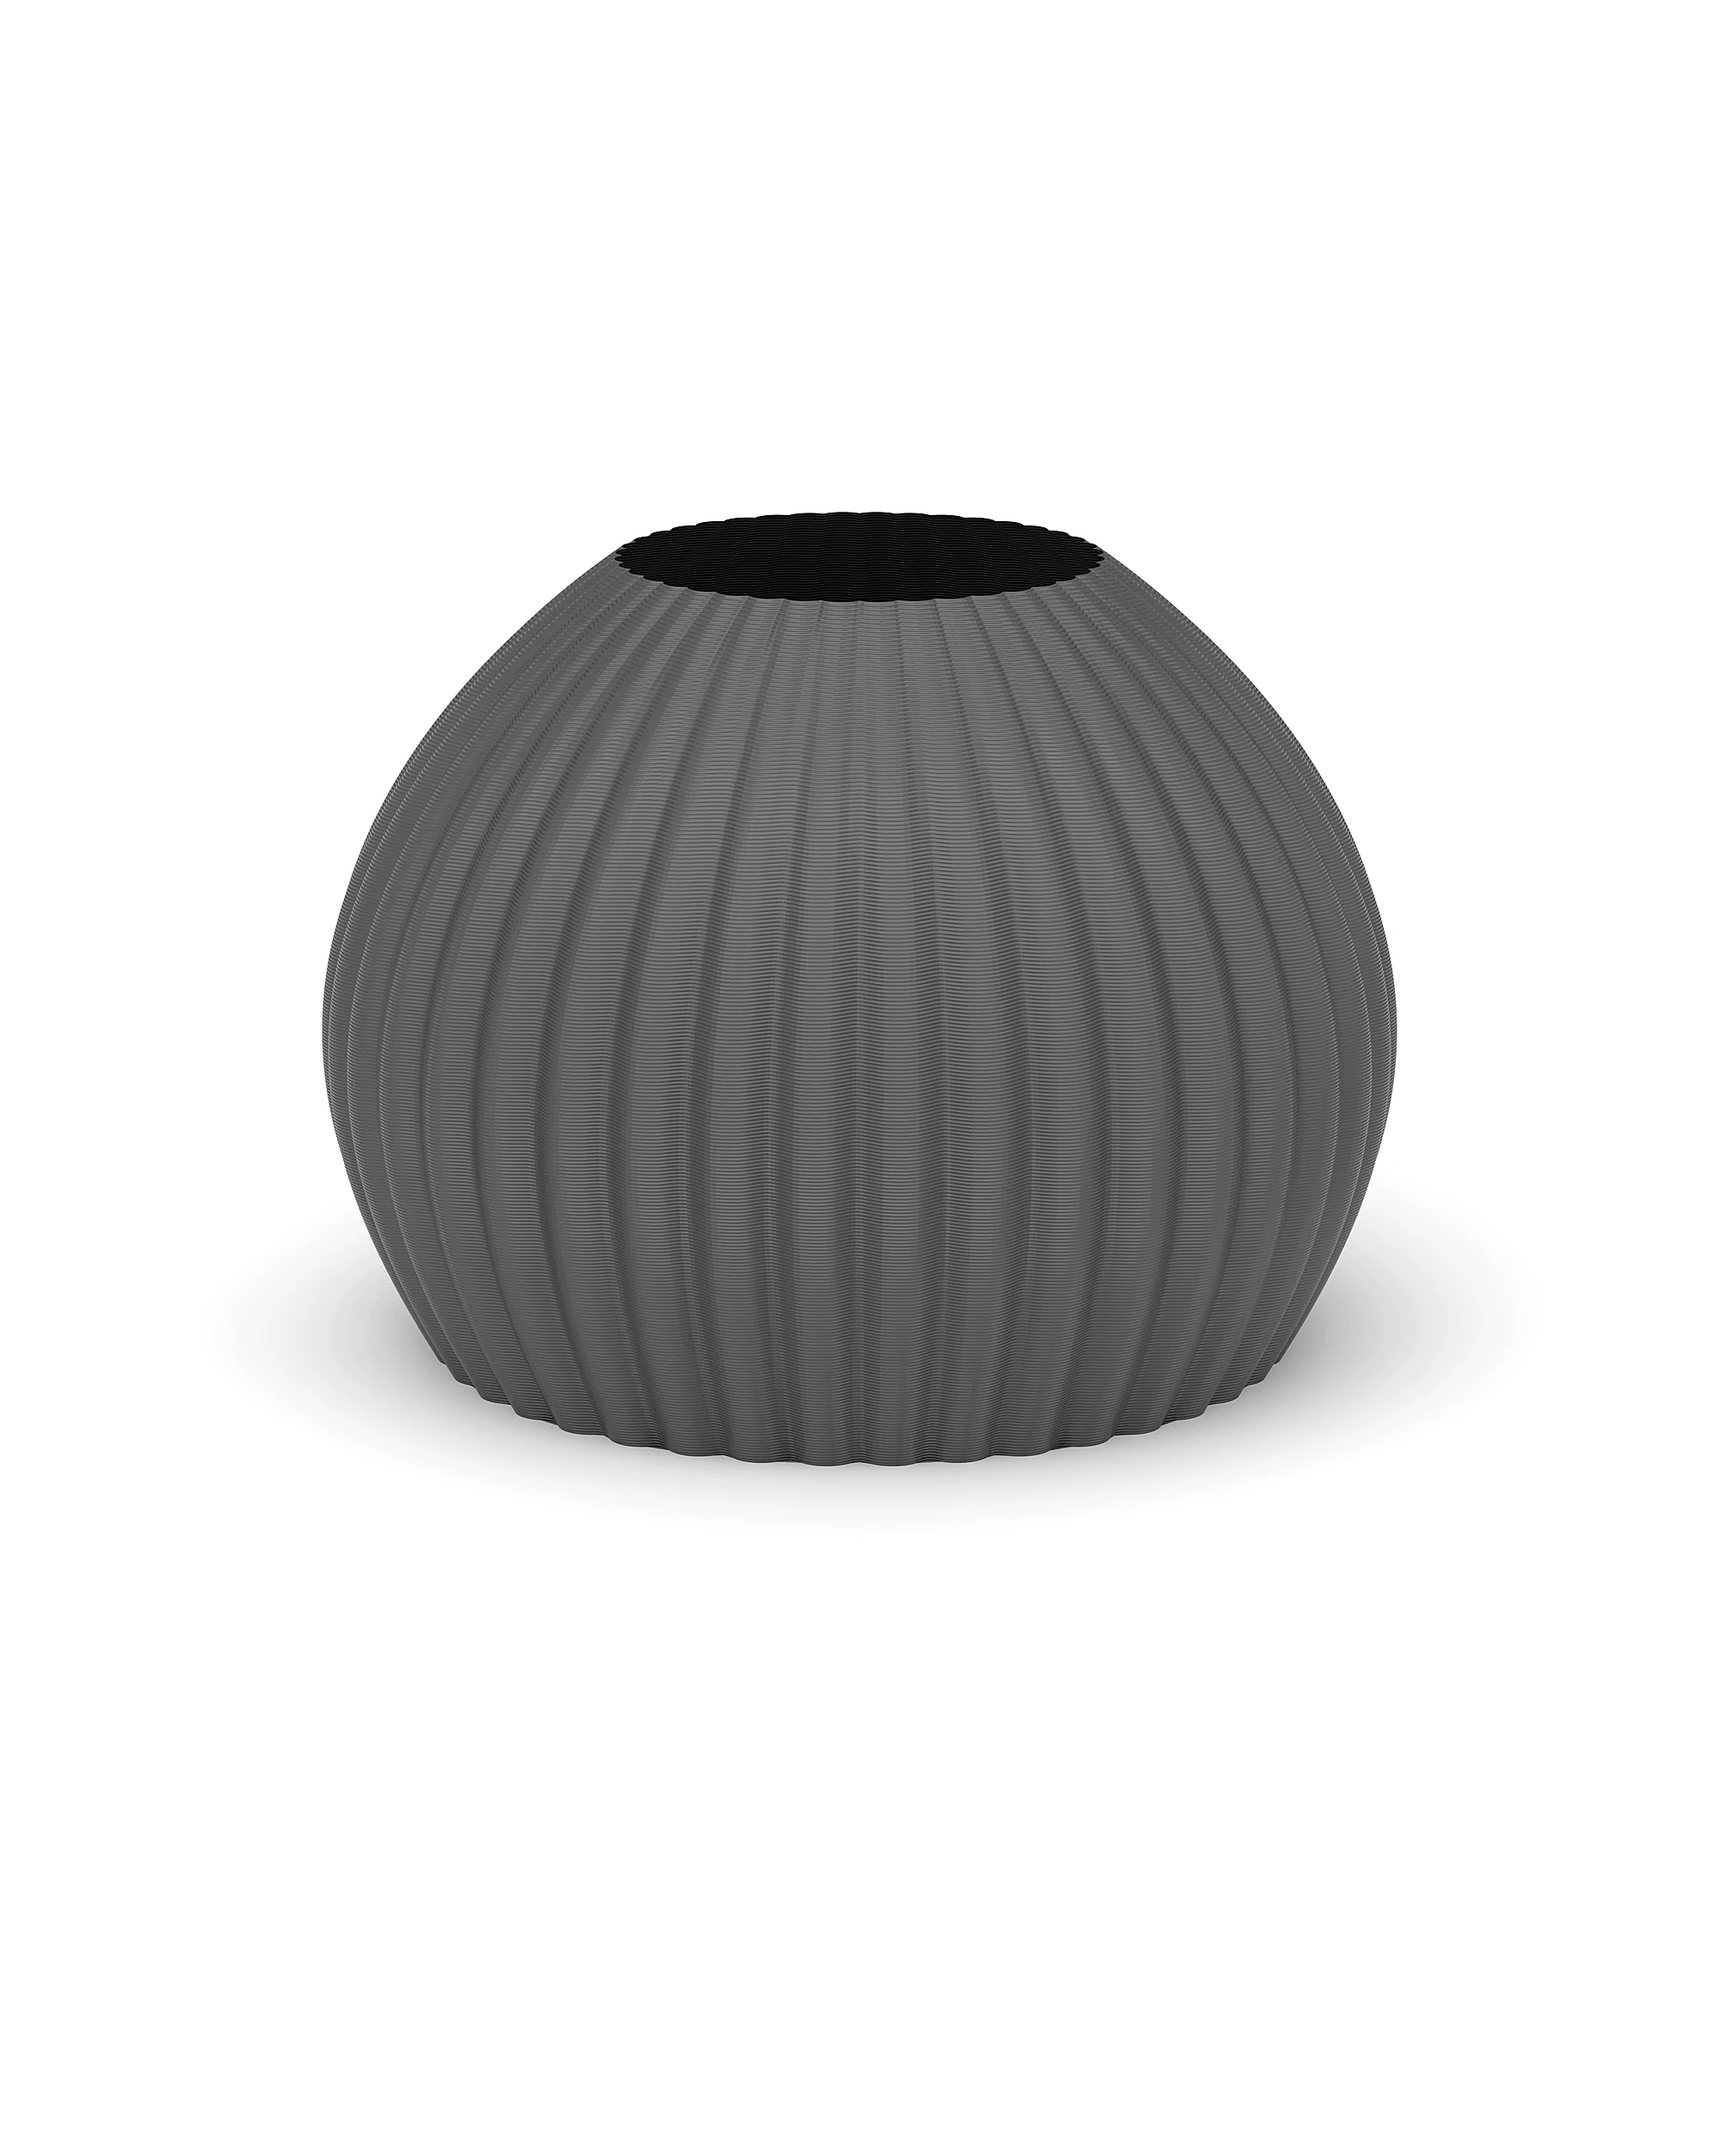
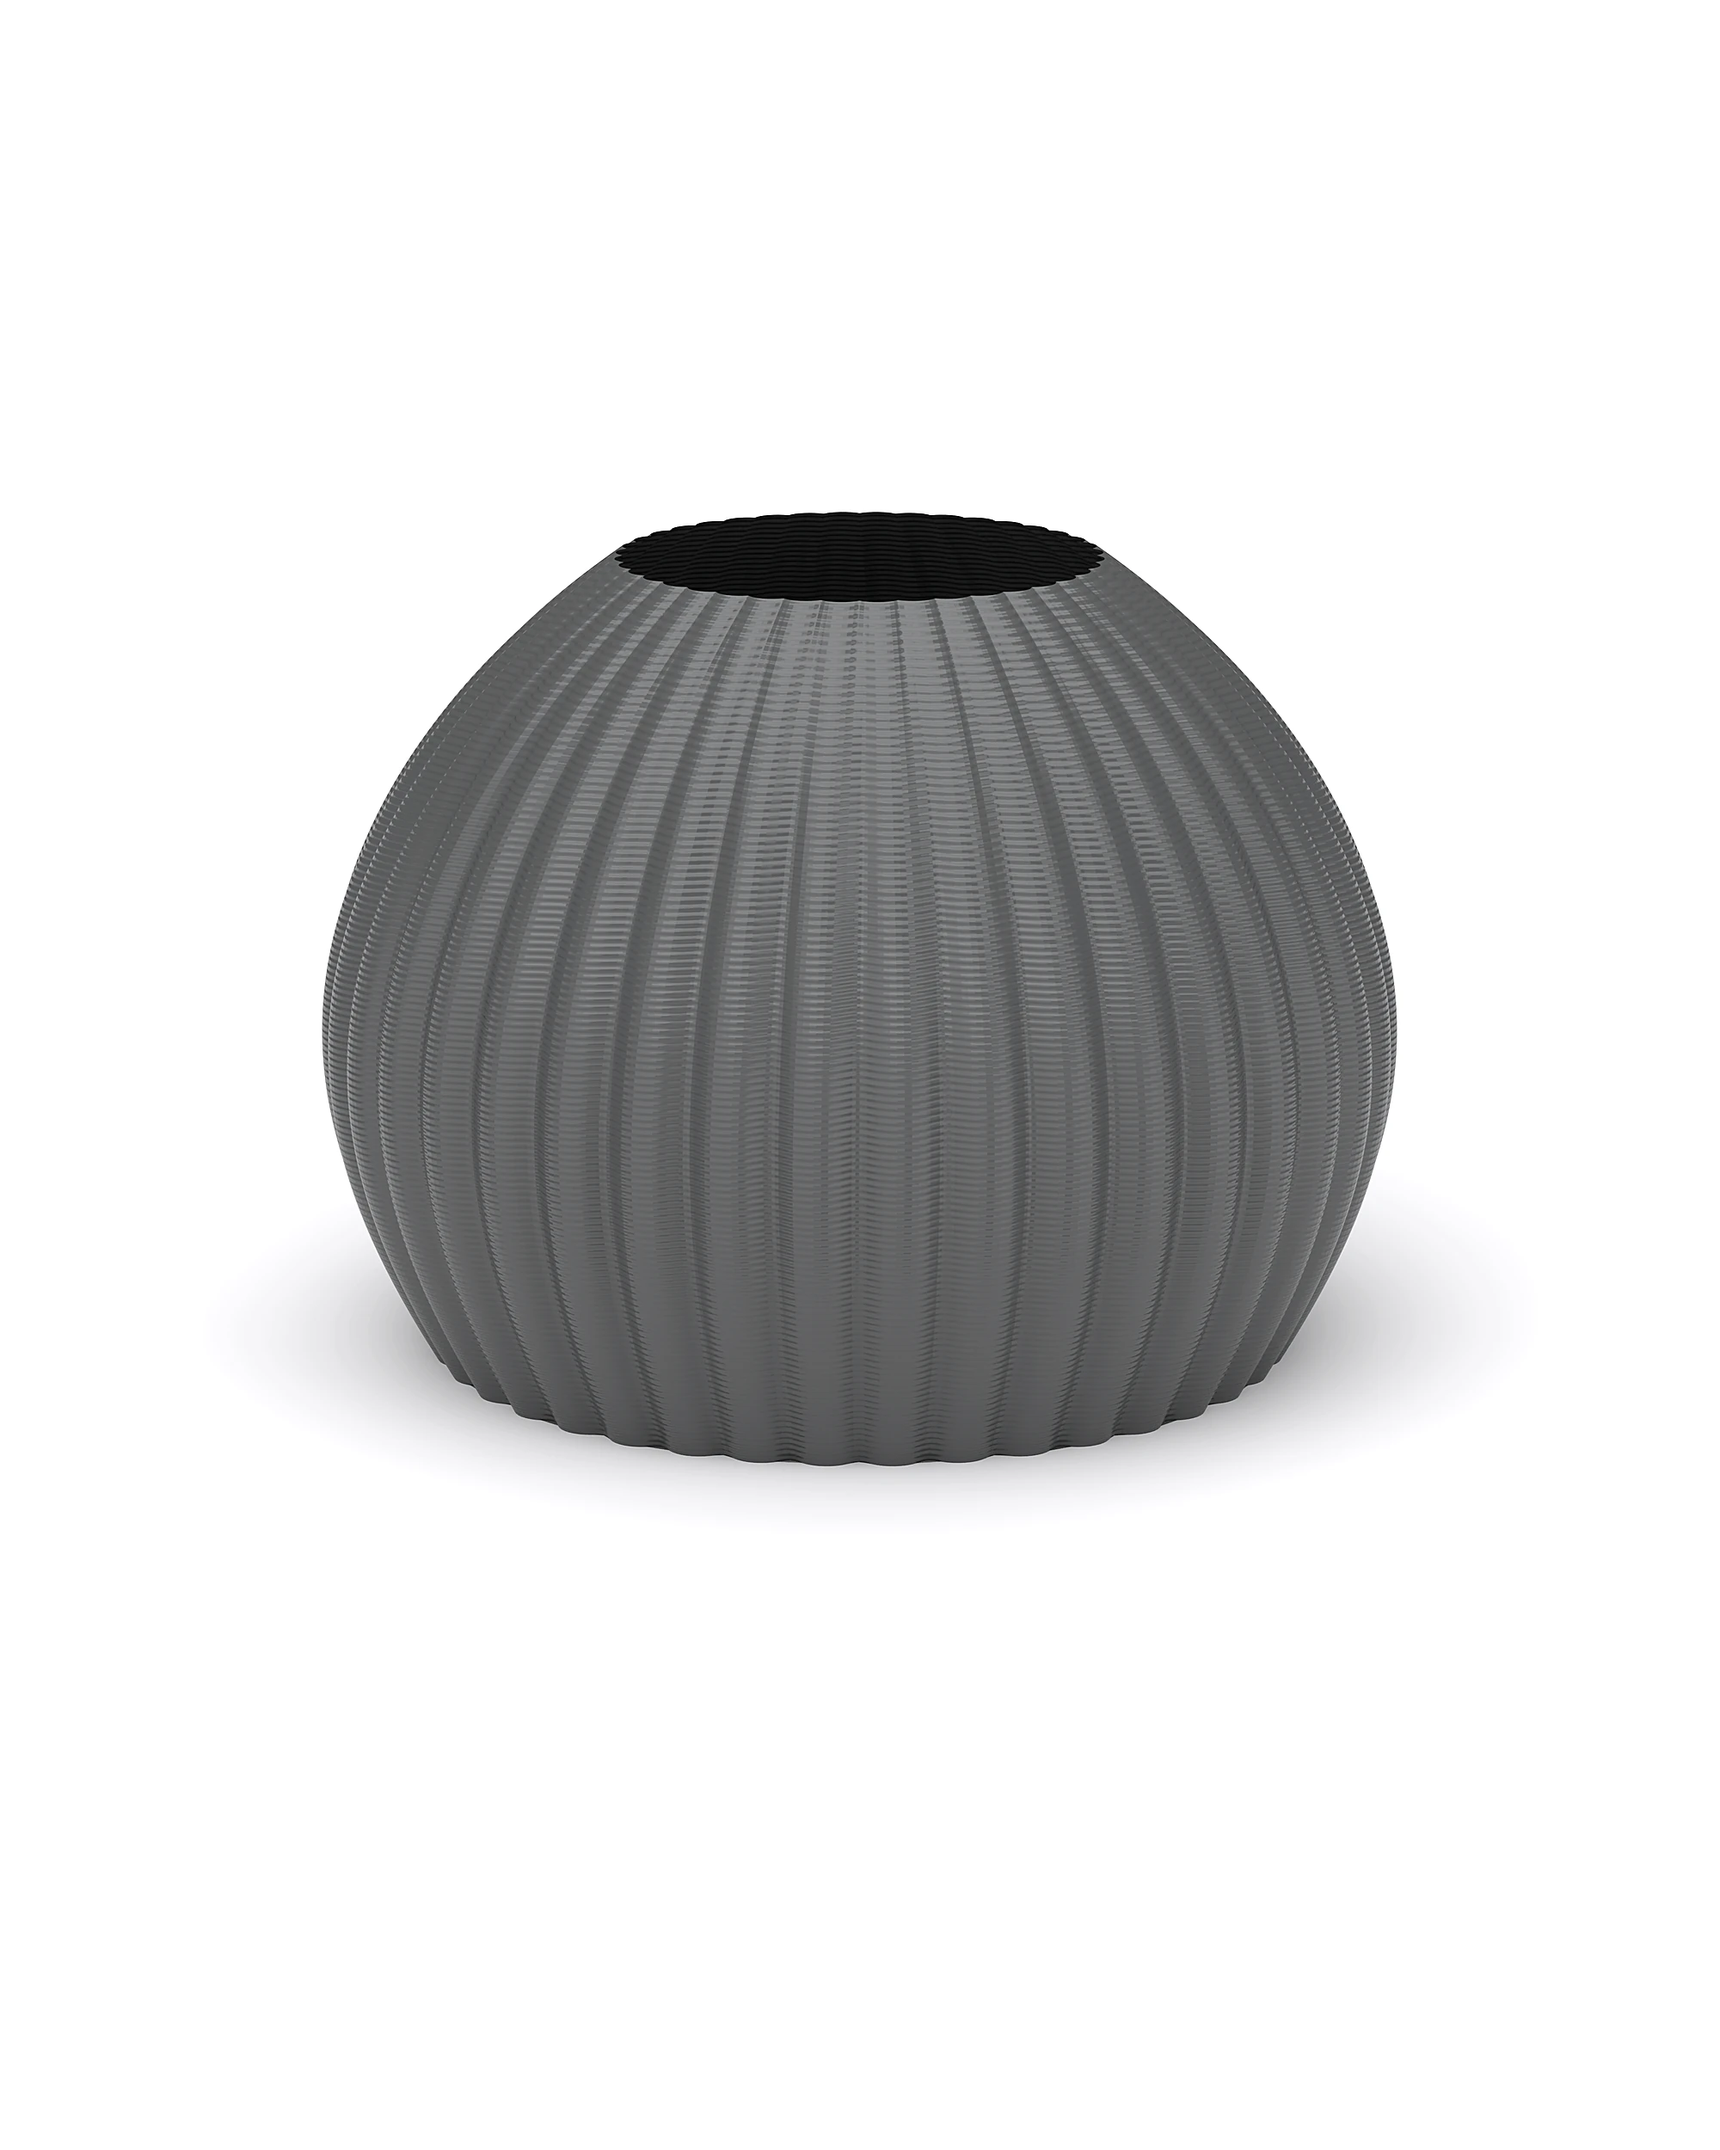
Bombato: layer piu' larghi (1,6 mm) per evitare l'effetto a onde sul cellulare, foto dei 13 colori rifatte; aggiunta foto salotto mancante
Claude-Session: https://claude.ai/code/session_01MGUzQ1NywuydeXA4jQqXxT

diff --git a/prodotto-bombato.html b/prodotto-bombato.html
@@ -705,19 +705,19 @@
     /* Il render del vaso in ogni colore (sito, luce uguale per tutti). Compare nel
        riquadro solo quando si tocca il pallino: NON e' fra le miniature. */
     var COLORI = {
-      "#a3444d":"images/Bombato/colori/bombato-red-wine.webp?v=c8",
-      "#91535d":"images/Bombato/colori/bombato-bordeaux.webp?v=c8",
-      "#bcbfb0":"images/Bombato/colori/bombato-sage.webp?v=c8",
-      "#646666":"images/Bombato/colori/bombato-antracite.webp?v=c8",
-      "#d8d0cd":"images/Bombato/colori/bombato-off-white.webp?v=c8",
-      "#e7cac0":"images/Bombato/colori/bombato-rose.webp?v=c8",
-      "#346371":"images/Bombato/colori/bombato-emerald-green.webp?v=c8",
-      "#0095a1":"images/Bombato/colori/bombato-blu-lagoon.webp?v=c8",
-      "#6b1492":"images/Bombato/colori/bombato-viola.webp?v=c8",
-      "#dd1d76":"images/Bombato/colori/bombato-magenta.webp?v=c8",
-      "#fed003":"images/Bombato/colori/bombato-giallo.webp?v=c8",
-      "#00924f":"images/Bombato/colori/bombato-verde.webp?v=c8",
-      "#e0bf42":"images/Bombato/colori/bombato-golden.webp?v=c8"
+      "#a3444d":"images/Bombato/colori/bombato-red-wine.webp?v=c9",
+      "#91535d":"images/Bombato/colori/bombato-bordeaux.webp?v=c9",
+      "#bcbfb0":"images/Bombato/colori/bombato-sage.webp?v=c9",
+      "#646666":"images/Bombato/colori/bombato-antracite.webp?v=c9",
+      "#d8d0cd":"images/Bombato/colori/bombato-off-white.webp?v=c9",
+      "#e7cac0":"images/Bombato/colori/bombato-rose.webp?v=c9",
+      "#346371":"images/Bombato/colori/bombato-emerald-green.webp?v=c9",
+      "#0095a1":"images/Bombato/colori/bombato-blu-lagoon.webp?v=c9",
+      "#6b1492":"images/Bombato/colori/bombato-viola.webp?v=c9",
+      "#dd1d76":"images/Bombato/colori/bombato-magenta.webp?v=c9",
+      "#fed003":"images/Bombato/colori/bombato-giallo.webp?v=c9",
+      "#00924f":"images/Bombato/colori/bombato-verde.webp?v=c9",
+      "#e0bf42":"images/Bombato/colori/bombato-golden.webp?v=c9"
     };
 
     var stato = { vista:'foto', da:'foto', foto:0, color:'#a3444d', nomeColore:'Red Wine', modelloAvviato:false };
